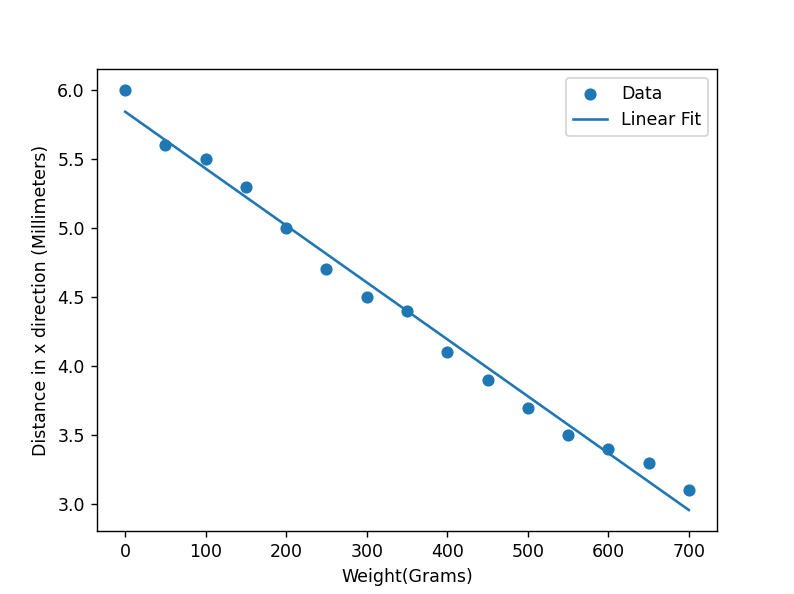
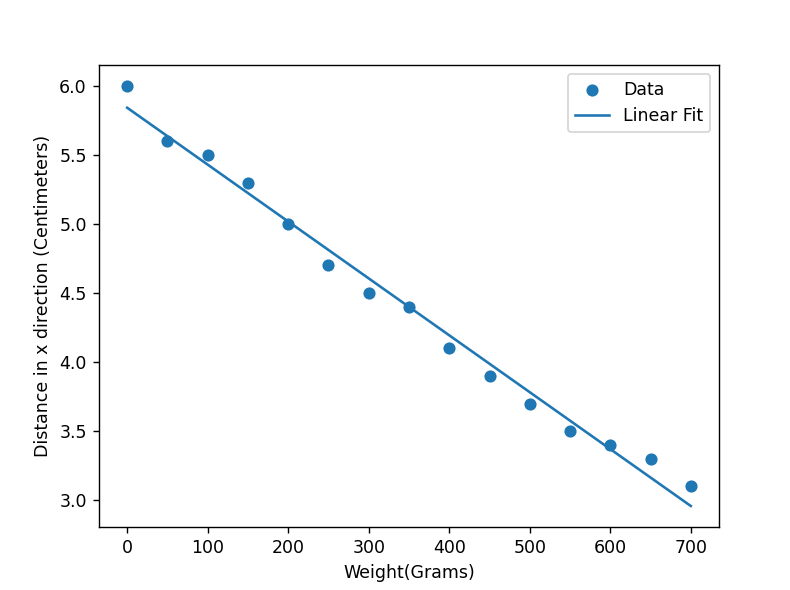
ipdating repo

Changed region(s): [[0.0304, 0.0915, 0.9114, 1.0], [0.5468, 0.5492, 0.6076, 0.6102]]

diff --git a/squish.py b/squish.py
@@ -24,5 +24,5 @@ plt.scatter(x, y, label='Data')
 plt.plot(x, linear(x, slope, intercept),label='Linear Fit') 
 plt.legend(loc='best')
 plt.xlabel("Weight(Grams)") 
-plt.ylabel("Distance in x direction (Millimeters)") 
+plt.ylabel("Distance in x direction (Centimeters)") 
 plt.show()
